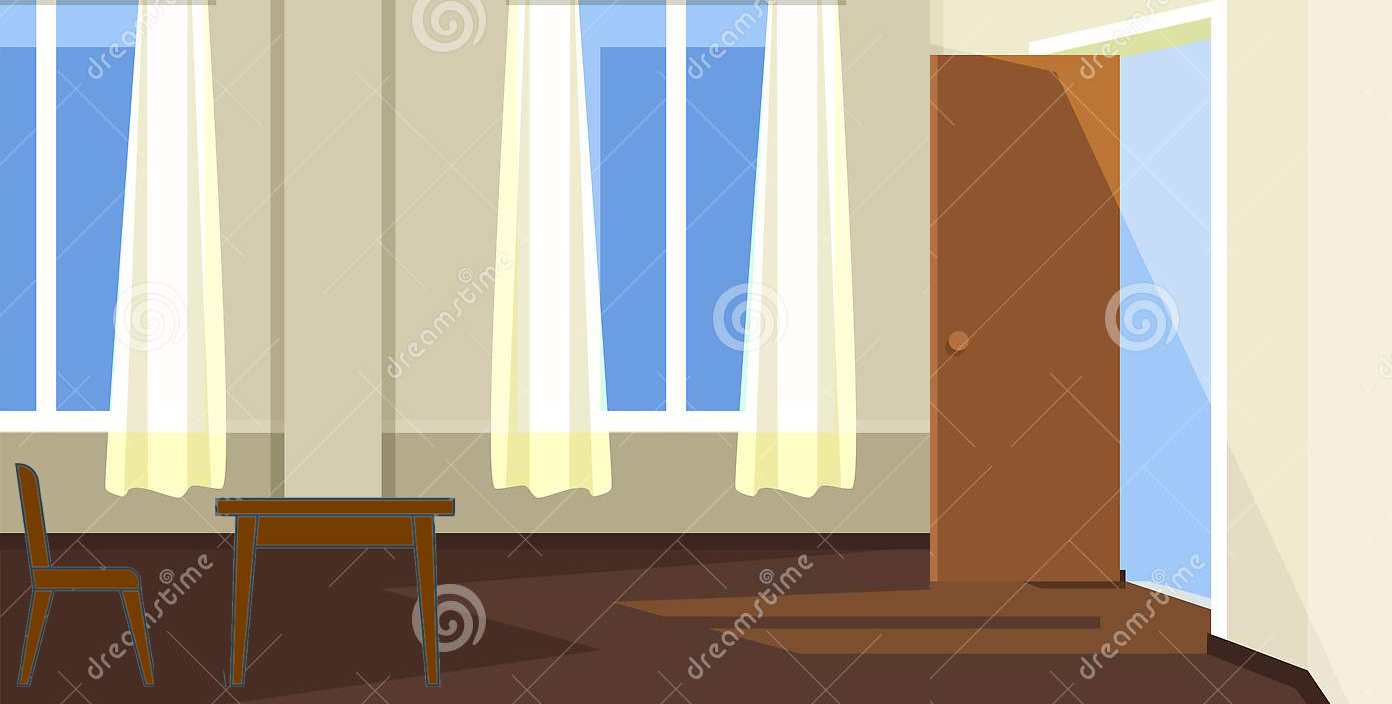
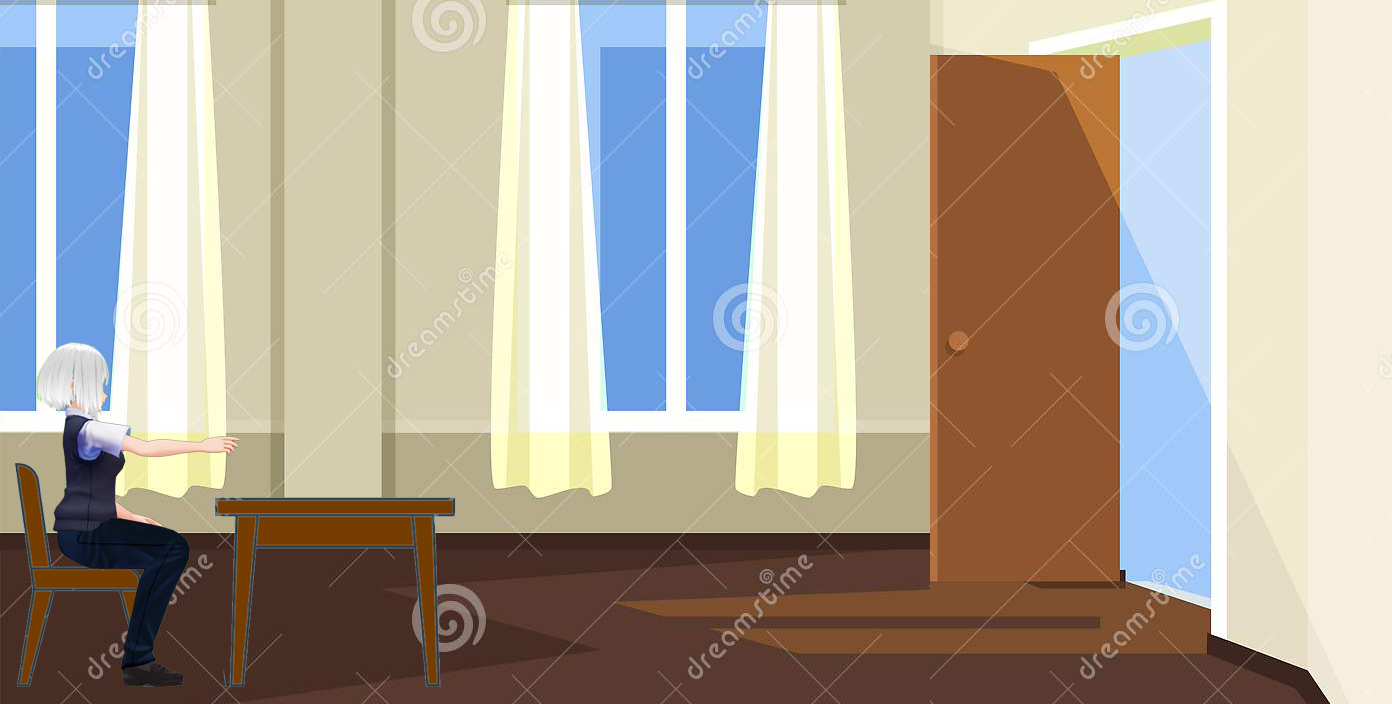
4th 5th panels

Changed region(s): [[0.0, 0.4688, 0.1853, 1.0]]

diff --git a/index.html b/index.html
@@ -44,35 +44,19 @@
             var slider = document.getElementById("slider");
 
             slider.oninput = function() {
-                console.log(this.value);
-
-
 
                 if(this.value <= 50 && this.value >= 25){
-                    // document.getElementById("firstFade").style.opacity = this.value / 100 * 2;
                     document.getElementById("firstFade").style.opacity = 1 - (((this.value - 25) / 100 ) * 4);
-                    document.getElementById("secondFade").style.opacity = (((this.value - 25) / 100 ) * 4);    
-                    // document.getElementById("thirdFade").style.opacity = 0;
-                    // document.getElementById("fourthFade").style.opacity = 0;
-                    // document.getElementById("fifthFade").style.opacity = 0;            
+                    document.getElementById("secondFade").style.opacity = (((this.value - 25) / 100 ) * 4);              
                 } else if(this.value <= 100 && this.value >= 75){
                     document.getElementById("secondFade").style.opacity = 1 - (((this.value - 75) / 100 ) * 4);0
                     document.getElementById("thirdFade").style.opacity = (((this.value - 75) / 100 ) * 4);
-                    // document.getElementById("firstFade").style.opacity = 0;
-                    // document.getElementById("fourthFade").style.opacity = 0;
-                    // document.getElementById("fifthFade").style.opacity = 0;
                 } else if(this.value <= 150 && this.value >= 125){
                     document.getElementById("thirdFade").style.opacity = 1 - (((this.value - 125) / 100 ) * 4);0
                     document.getElementById("fourthFade").style.opacity = (((this.value - 125) / 100 ) * 4);
-                    // document.getElementById("firstFade").style.opacity = 0;
-                    // document.getElementById("secondFade").style.opacity = 0;
-                    // document.getElementById("secondFade").style.opacity = 0;
                 } else if(this.value <= 200 && this.value >= 175){
                     document.getElementById("fourthFade").style.opacity = 1 - (((this.value - 175) / 100 ) * 4);0
                     document.getElementById("fifthFade").style.opacity = (((this.value - 175) / 100 ) * 4);
-                    // document.getElementById("firstFade").style.opacity = 0;
-                    // document.getElementById("secondFade").style.opacity = 0;
-                    // document.getElementById("thirdFade").style.opacity = 0;
                 }
 
                 if(this.value >= 0 && this.value <= 25){
@@ -108,11 +92,6 @@
                     document.getElementById("fourthFade").style.opacity = 0;
                     document.getElementById("fifthFade").style.opacity = 1; 
                 }
-
-                // 0-25 first
-                // 50-75 second
-                // 100 - 125 third
-                // 150 - 175 fourth
 
                 if(this.value > 90 && canChange){
                     changeClothes("denim");
@@ -254,7 +233,6 @@
                 <img src="ground.png" alt="">
             </div>
 
-
             <div id="behindCinderella">
                 <img src="alba.png" alt="">
             </div>
@@ -309,8 +287,14 @@
                 <img src="fitting room.png" alt="">
             </div>
 
+            <div>
+                <h3 id="storeText"><a href="#">Alba Denim</a></h3>
+            </div>
+
             <div class="slider">
+                
                 <input type="range" min="0" max="200" value="0" class="slider" id="slider" step="1">
+                <p id="slideMe"> <-- Slide me --></p>
             </div>
 
             <p class="text top-left" id="firstFade" style="opacity: 1;">Alba Denim is a luxury denim brand based in Edinburgh, with its manufacturing facilities dating back to 1913.</p>
@@ -326,10 +310,21 @@
             <p class="text bottom-right">With her new outfit, Cinderella was ready to go to the audition.</p>
         </div>
         <div class="panel" id="fourthPanel">
-            <p class="text top-left">On the day of the audition...</p>
-        </div>
-        <div class="panel">
+            <p class="text top-left">At the audition...</p>
             
+            <p id="interviewer" class="speech">Cinderella! You really look like one of <em>those that know!</em> We choose you!</p>
+
+            <img id="cinderellaAudition" src="oldClothes (22).png">
+
+            <p id="cinderellaAudText" class="speechRight">Yes! Thank you so much!</p>
+
+            <p class="text bottom-right">Cinderella told her godmother the good news and went home.</p>
+        </div>
+        <div class="panel" id="fifthPanel">
+            <div id="cinderellaFifthPanel">
+                <img src="cinderellaFirstPanel.png" alt="">
+                <p class="speech">I can't believe I made it! This is all thanks to <em>Alba Denim</em>!</p>
+            </div>
         </div>
       </article>    
 </body>

diff --git a/style.css b/style.css
@@ -13,6 +13,8 @@ html, body {
     padding-left: 4vmin;
     padding-top: 2vmin;
     padding-bottom: 2vmin;
+    align-items: center;
+    justify-content: center;
   }
   
   .panel {
@@ -80,7 +82,7 @@ html, body {
     transform:skew(-15deg);
     width:0;
   }
-  
+
   .speech:after {
     border:solid 10px transparent;
     border-left:solid 10px #fff;
@@ -91,6 +93,44 @@ html, body {
     left:27px;
     position:absolute;
     transform:skew(-15deg);
+    width:0;
+  }
+
+  .speechRight {
+    background-color:#fff;
+    border:solid 2px #000;
+    border-radius:12px;
+    display:inline-block;
+    margin:.5em;
+    padding:.5em 1em;
+    position:relative;
+    word-wrap: break-word;
+    text-align: center;
+  }
+  
+  .speechRight:before {
+    border:solid 12px transparent;
+    border-left:solid 12px #000;
+    border-top:solid 12px #000;
+    bottom:-24px;
+    content:"";
+    height:0;
+    right:23px;
+    position:absolute;
+    transform:skew(55deg);
+    width:0;
+  }
+
+  .speechRight:after {
+    border:solid 10px transparent;
+    border-left:solid 10px #fff;
+    border-top:solid 10px #fff;
+    bottom:-19px;
+    content:"";
+    height:0;
+    right:28px;
+    position:absolute;
+    transform:skew(55deg);
     width:0;
   }
   
@@ -106,10 +146,10 @@ html, body {
     background-color: rgb(129, 183, 255);
   }
   .panel:nth-child(4) {
-    flex-basis: 40%;
+    flex-basis: 50%;
   }
   .panel:nth-child(5) {
-    flex-basis: 40%;
+    flex-basis: 30%;
     background-color: rgb(129, 183, 255);
   }
 
@@ -402,6 +442,22 @@ html, body {
   left: 80%;
 }
 
+#storeText{
+  position:absolute;
+  left: 50%;
+  top: 220px;
+  transform: translate(-50%, 0%);
+}
+
+ #slideMe{
+  position:absolute;
+  left: 50%;
+  transform: translate(-50%, 0%);
+  bottom: 10px;
+  margin: 0;
+  padding: 0;
+ }
+
 /* THIRD PANEL END */
 
 /* FOURTH PANEL */
@@ -410,4 +466,56 @@ html, body {
   background-image: url(auditionRoom.png);
 }
 
+#interviewer{
+  left: 100px;
+  top: 200px;
+  max-width: 150px;
+}
+
+#cinderellaAudition{
+  position:absolute;
+  right: 0%;
+  bottom: 0px;
+  height: 460px;
+  transform: scaleX(-1);
+}
+
+#cinderellaAudText{
+  position:absolute;
+  right: 17%;
+  top: 25%;
+}
+
 /* FOURTH PANEL END*/
+
+/* FIFTH PANEL */
+
+#fifthPanel{
+  background: url(firstRoom.png);
+  background-size: cover;
+}
+
+#cinderellaFifthPanel{
+  position:absolute;
+  width: 100%;
+  height: 100%;
+}
+
+#cinderellaFifthPanel img{
+  position:absolute;
+  height: 75%;
+  width: auto;
+  left: 50%;
+  bottom: 0px;
+  transform: translate(-50%, 0%);
+}
+
+#cinderellaFifthPanel p{
+  position:absolute;
+  max-width: 200px;
+  left: 66%;
+  top: 12%;
+  transform: translate(-50%, 0%);
+}
+
+/* FIFTH PANEL END*/
